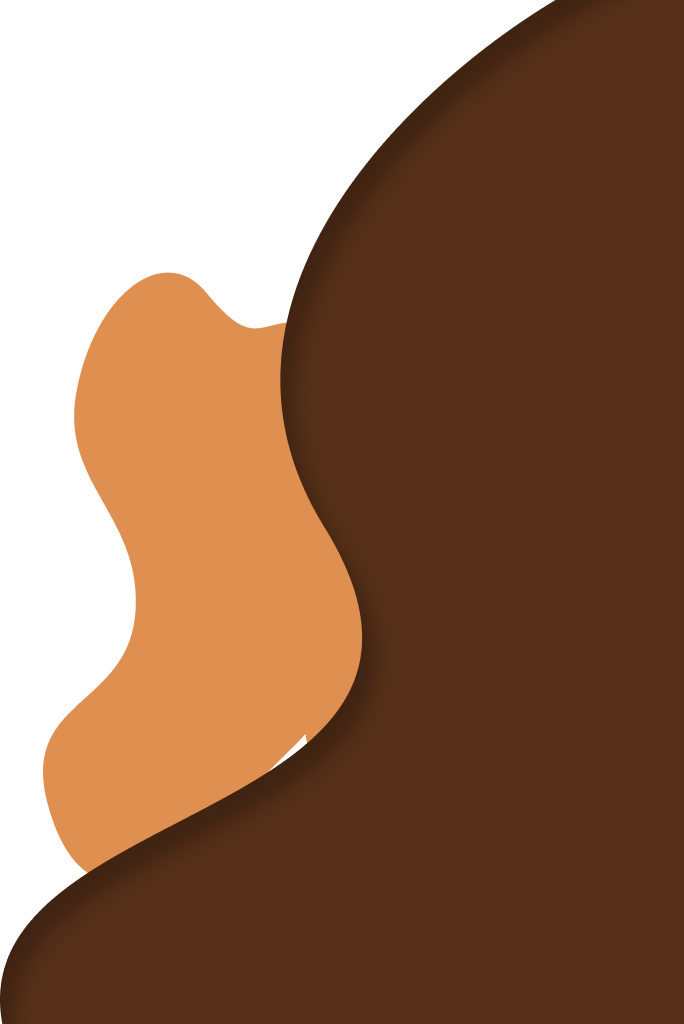
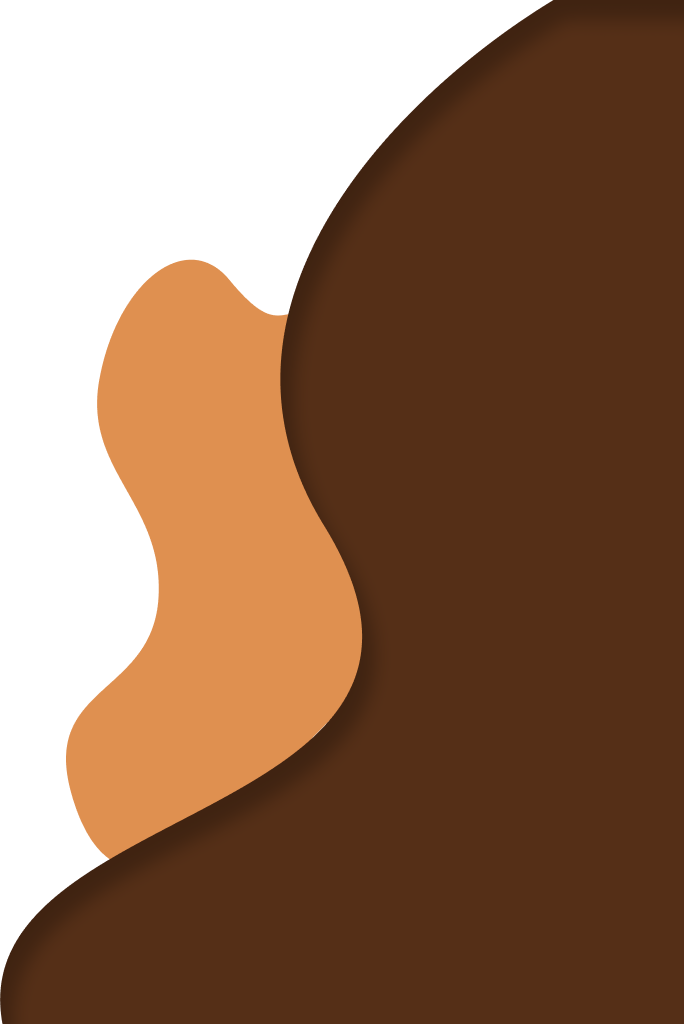
Detalhes das telas de login/cadastro

Changed region(s): [[0.0921, 0.25, 0.4298, 0.6875], [0.0614, 0.6875, 0.1535, 0.875], [0.3991, 0.7188, 0.4605, 0.75]]

diff --git a/view/pages/public/login/style.login.css b/view/pages/public/login/style.login.css
@@ -44,7 +44,8 @@ main {
 
 .img_sorvete {
     height: fit-content; /* Ajusta a imagem ao tamanho da div */
-    width: 330px; /* Tamanho que a div terá (consequentemente, tamanho que a imagem também terá) */
+    width: 300px; /* Tamanho que a div terá (consequentemente, tamanho que a imagem também terá) */
+    margin-left: 10px;
 
 }
 
@@ -53,9 +54,7 @@ main {
 
 /* A partir daqui, todas as divs são filhas do MAIN */
 .caixa_formulario {
-    width: 40%; /* Ocupa 40% da largura do MAIN */
-    margin-right: 0px; /* margem à direita usada apenas para deixar a div exatamente na posição que deveria */
-    /* margin-left: 300px; */
+    width: 70%; /* Ocupa 40% da largura do MAIN */
     display: flex;
     flex-direction: column; /* colocou todos os elementos dela (h1, inputs e button) em coluna, na vertical */
 ;
@@ -84,6 +83,7 @@ main {
 .caixa_formulario .input_user {
     background: url(../assets/pink/icons/person_filled.png) no-repeat left / 1.0em;
     padding-left: 28px;
+    border-color: #BCC4D8;
     /* ÍCONE: url, não repetir a imagem, alinhado a esquerda / tamanho do ícone */
 }
 
@@ -91,6 +91,7 @@ main {
 .caixa_formulario .input_pass {
     background: url(../assets/pink/icons/pink-key.png) no-repeat left / 1.2em;
     padding-left: 28px;
+    border-color: #BCC4D8;
     /* ÍCONE: url, não repetir a imagem, alinhado a esquerda / tamanho do ícone */
 }
 
@@ -99,10 +100,14 @@ main {
 .sem_login{
     font-size: small;
     color: magenta;
-    text-align: center  ;
-    cursor: pointer;
+    text-align: center;
     margin-top: 10px;
 
+}
+
+
+.sem_login b {
+    cursor: pointer;
 }
 
 
@@ -110,7 +115,7 @@ main {
 .caixa_formulario button {
     margin-top: 10px; /* distanciou o botão das inputs */
     padding: 8px 0px; /* "engordou" o botão verticalmente, nada horizontalmente */
-    border-radius: 10px; /* arredondou as bordas */
+    border-radius: 135px; /* arredondou as bordas */
     border: none; /* retirou um contorno de borda padrão e feio */
     background-color: var(--neon-pink); /* cor do botão */
     color: white; /* cor do texto do botão */
@@ -118,16 +123,15 @@ main {
     cursor: pointer;
 }
 
-.box_cadastro {
-
-    background-color: #FF3596;
-    opacity: 8%;
+.box_login {
+    margin-right: 100px;
+    background-color: #ff36971a;
     display: flex;
     justify-content: center;
     padding-top: 25px;
     padding-bottom: 25px;
     width:50%;
     border-radius: 15px;
-    box-shadow: 4px 4px 36px 4px rgba(0, 0, 0, 0.25);
+    box-shadow: 2px 2px 10px 8px rgba(107, 107, 107, 0.15);
 }
 

diff --git a/view/pages/public/register/company/style.company.css b/view/pages/public/register/company/style.company.css
@@ -8,7 +8,7 @@
     background: url(../../assets/brown/icons/brown-user.png) no-repeat left / 1.0em;
     padding-left: 28px;
     outline: none;
-    border-color: #552F17;
+    border-color: #552f1780;
     /* ÍCONE: url, não repetir a imagem, alinhado a esquerda / tamanho do ícone */
 }
 
@@ -16,7 +16,7 @@
     background: url(../../assets/brown/icons/brown-card.png) no-repeat left / 1.0em;
     padding-left: 28px;
     outline: none;
-    border-color: #552F17;
+    border-color: #552f1780;
     
     /* ÍCONE: url, não repetir a imagem, alinhado a esquerda / tamanho do ícone */
 }
@@ -25,7 +25,7 @@
     background: url(../../assets/brown/icons/brown-badge.png) no-repeat left / 1.2em;
     padding-left: 28px;
     outline: none;
-    border-color: #552F17;
+    border-color: #552f1780;
     /* ÍCONE: url, não repetir a imagem, alinhado a esquerda / tamanho do ícone */
 }
 
@@ -33,7 +33,7 @@
     background: url(../../assets/brown/icons/brown-call.png) no-repeat left / 1.2em;
     padding-left: 28px;
     outline: none;
-    border-color: #552F17;
+    border-color: #552f1780;
     /* ÍCONE: url, não repetir a imagem, alinhado a esquerda / tamanho do ícone */
 }
 
@@ -47,6 +47,7 @@
     background-color: var(--baby-brown);
     cursor: pointer;
     border-radius: 135px;
+    margin-top: 10px;
 }
 .caixa_formulario{
     display: flex;
@@ -54,20 +55,30 @@
     width: 70%;
 }
 .caixa_formulario p{
+    color: var(--hot-brown);
     text-align: center;
     margin-top: 10px;
 }
 .caixa_formulario b{
     cursor: pointer;
 }
+.caixa_formulario .voltar{
+    margin-top: 20px;
+    font-size: 14px;
+    font-family: arial;
+}
+.caixa_formulario .voltar:hover{
+    cursor: pointer;
+    text-decoration: underline;
+}
 .box_cadastro {
 
-    background-color: rgba(58, 88, 165, 0.096);
+    background-color: rgba(223, 144, 80, 0.15);
     display: flex;
     justify-content: center;
     padding-top: 25px;
     padding-bottom: 25px;
     width:50%;
     border-radius: 15px;
-    box-shadow: 4px 4px 36px 4px rgba(0, 0, 0, 0.25);
+    box-shadow: 1px 1px 10px 5px rgba(0, 0, 0, 0.15);
 }

diff --git a/view/style/index.style.css b/view/style/index.style.css
@@ -8,13 +8,13 @@ header {
 
 header.sticky {
     padding: 5px 100px;
+    background-color: #fff;
     -webkit-transition: 0.3s;
     transition: 0.3s;
     -webkit-box-shadow: 0 4px 8px 0 rgba(0, 0, 0, 0.2), 0 6px 20px 0 rgba(0, 0, 0, 0.19);
             box-shadow: 0 4px 8px 0 rgba(0, 0, 0, 0.2), 0 6px 20px 0 rgba(0, 0, 0, 0.19);
     z-index: 2;
     width: 100%;
-    position: fixed;
   }
   
 .container{
@@ -82,7 +82,7 @@ header.sticky {
   }
 
   .acessar button:hover{
-    transform: scale(1.05);
+    transform: scale(0.9);
     transition: 0.3s;
 
   }
@@ -142,7 +142,7 @@ main{
 
 
 .content button:hover{
-    transform: scale(1.05);
+    transform: scale(0.9);
     transition: 0.3s;
 }
 .elements{
@@ -183,7 +183,7 @@ main{
     width: 164.12px;
     height: 160.85px;
     left: 35%;
-    top: 75%;
+    top: 100%;
 }
 
 /*FIM HOME*/
@@ -371,7 +371,7 @@ main{
 .container_calculadora button:hover {
     scale: 1.1;
     
-    transform: scale(1.05);
+    transform: scale(0.95);
     transition: 0.3s;
     
 }
@@ -428,6 +428,8 @@ main{
     100px 100px 80px rgba(0, 0, 0, 0.07);
     width: 550px;
     border-radius: 10px;
+
+    transform: scale(0.9);
     transition: 0.3s;
     
 }
@@ -456,7 +458,7 @@ main{
     border: none;
     padding: 10px 92px;
     transition: 0.5s;
-    z-index: 1;
+    z-index: 2;
 
 }
 
@@ -466,14 +468,9 @@ main{
 }
 
 .container-button-result button:hover {
-    scale: 1.05;
+    scale: 1.1;
     cursor: pointer;
 }
-
-/* .a {
-    text-decoration: none;
-    color: white;
-} */
 
 .footer-result-calculator {
     width: 550px;
@@ -485,7 +482,7 @@ main{
 }
 
 .color-blue-white:hover{
-    transform: scale(1.05);
+    transform: scale(0.95);
     transition: 0.3s;
     
 }

diff --git a/view/pages/public/register/company/register.company.html b/view/pages/public/register/company/register.company.html
@@ -18,11 +18,12 @@
                     <h1>CADASTRO EMPRESARIAL</h1>
                         <input class="input_user" type="text" placeholder="Nome Fantasia">
                         <input class="input_email" type="email" placeholder="CNPJ">
-                        <input class="input_pass" type="password" placeholder="Responsavel">
-                        <input class="input_pass_2" type="password" placeholder="Telefone">
-                    <p> Já possui cadastro? Faça login clicando <b onclick="voltar_login()">aqui!</b></p>
+                        <input class="input_pass" type="text" placeholder="Responsavel">
+                        <input class="input_pass_2" type="text" placeholder="Telefone">
+                    <p>Já possui cadastro? Faça login clicando <b onclick="voltar_login()"></bonclick>aqui!</b></p>
                         <!-- Inputs com placeholder e espaços pois sem os espaços o texto ficaria sobrepondo os ícones -->
-                    <button onclick="cadastrar_empresa()">Cadastrar</button>
+                    <button onclick="cadastrar_empresa()">Avançar</button>
+                    <p class="voltar" onclick="cadastrar_usuario()">Voltar</p>
                 </div>
             </div>
         </main>

diff --git a/view/pages/public/register/user/register.user.html b/view/pages/public/register/user/register.user.html
@@ -16,13 +16,12 @@
             <div class="box_cadastro">
                 <div class="caixa_formulario">
                     <h1>CADASTRO DE USUÁRIO</h1>
-                        <input class="input_user" type="text" placeholder= "Usuário">
-                        <input class="input_email" type="email" placeholder="E-mail">
-                        <input class="input_pass" type="password" placeholder="Senha">
-                        <input class="input_pass_2" type="password" placeholder="Confirme a Senha">
-                        <!-- Inputs com placeholder e espaços pois sem os espaços o texto ficaria sobrepondo os ícones -->
-                
+                    <input class="input_user" type="text" placeholder= "Usuário">
+                    <input class="input_email" type="email" placeholder="E-mail">
+                    <input class="input_pass" type="password" placeholder="Senha">
+                    <input class="input_pass_2" type="password" placeholder="Confirme a Senha">                
                     <button onclick="cadastrar_usuario()">Cadastrar</button>
+                    <p onclick="criar_conta()" class="voltar">Voltar</p>
                 </div>
         </div>
         </main>

diff --git a/view/pages/public/login/login.html b/view/pages/public/login/login.html
@@ -18,13 +18,15 @@
             </div>
         </div>  
         <main>
-            <div class="caixa_formulario">
-                <h1>BOAS VINDAS!</h1>
-                    <input class="input_user" autofocus type="text" placeholder="        Usuário">
-                    <input class="input_pass" type="password" placeholder="        Senha">
+            <div class="box_login">
+                <div class="caixa_formulario">
+                    <h1>BOAS VINDAS!</h1>
+                        <input class="input_user" type="text" placeholder="Usuário">
+                        <input class="input_pass" type="password" placeholder="Senha">
                 
-                <span onclick="criar_conta()" class="sem_login">Não tem login? Cadastre-se já!</span>
-                <button onclick="entrar()">Entrar</button>
+                    <span class="sem_login">Não tem login? <b onclick="criar_conta()">Cadastre-se já!</b></span>
+                    <button onclick="entrar()">Entrar</button>
+                </div>
             </div>
         </main>
        <a href="../register/company/register.company.html"></a>

diff --git a/view/pages/public/register/user/style.user.css b/view/pages/public/register/user/style.user.css
@@ -46,6 +46,18 @@
     border-radius: 135px;
 }
 
+.caixa_formulario .voltar{
+    margin-top: 20px;
+    font-size: 14px;
+    font-family: arial;
+    text-align: center;
+    color: var(--blue-pen);
+}
+.caixa_formulario .voltar:hover{
+    cursor: pointer;
+    text-decoration: underline;
+}
+
 .caixa_formulario{
     display: flex;
     justify-content: center;
@@ -54,12 +66,12 @@
 
 .box_cadastro {
 
-    background-color: rgba(58, 88, 165, 0.096);
+    background-color: rgba(51, 89, 165, 0.10);
     display: flex;
     justify-content: center;
     padding-top: 25px;
     padding-bottom: 25px;
     width:50%;
     border-radius: 15px;
-    box-shadow: 4px 4px 36px 4px rgba(0, 0, 0, 0.25);
+    box-shadow: 1px 1px 10px 5px rgba(0, 0, 0, 0.15);
 }
